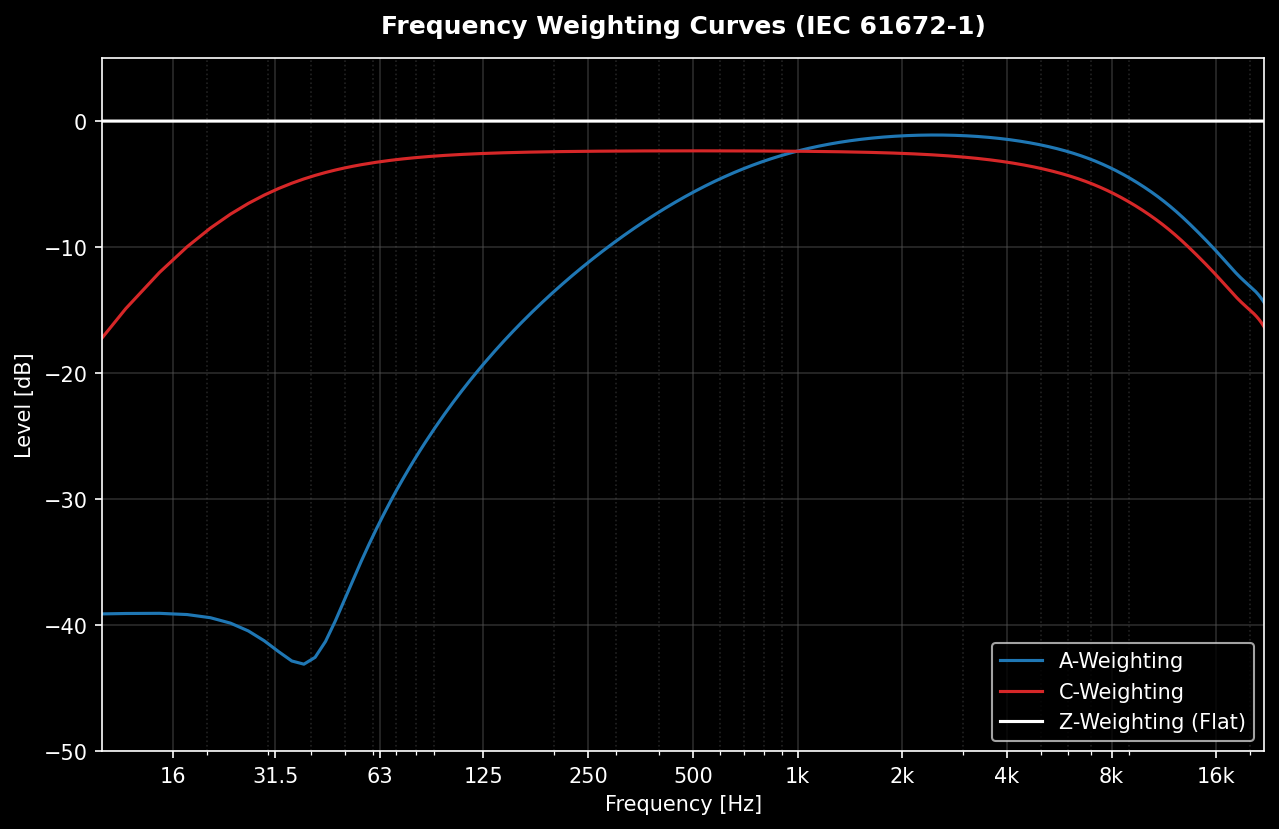
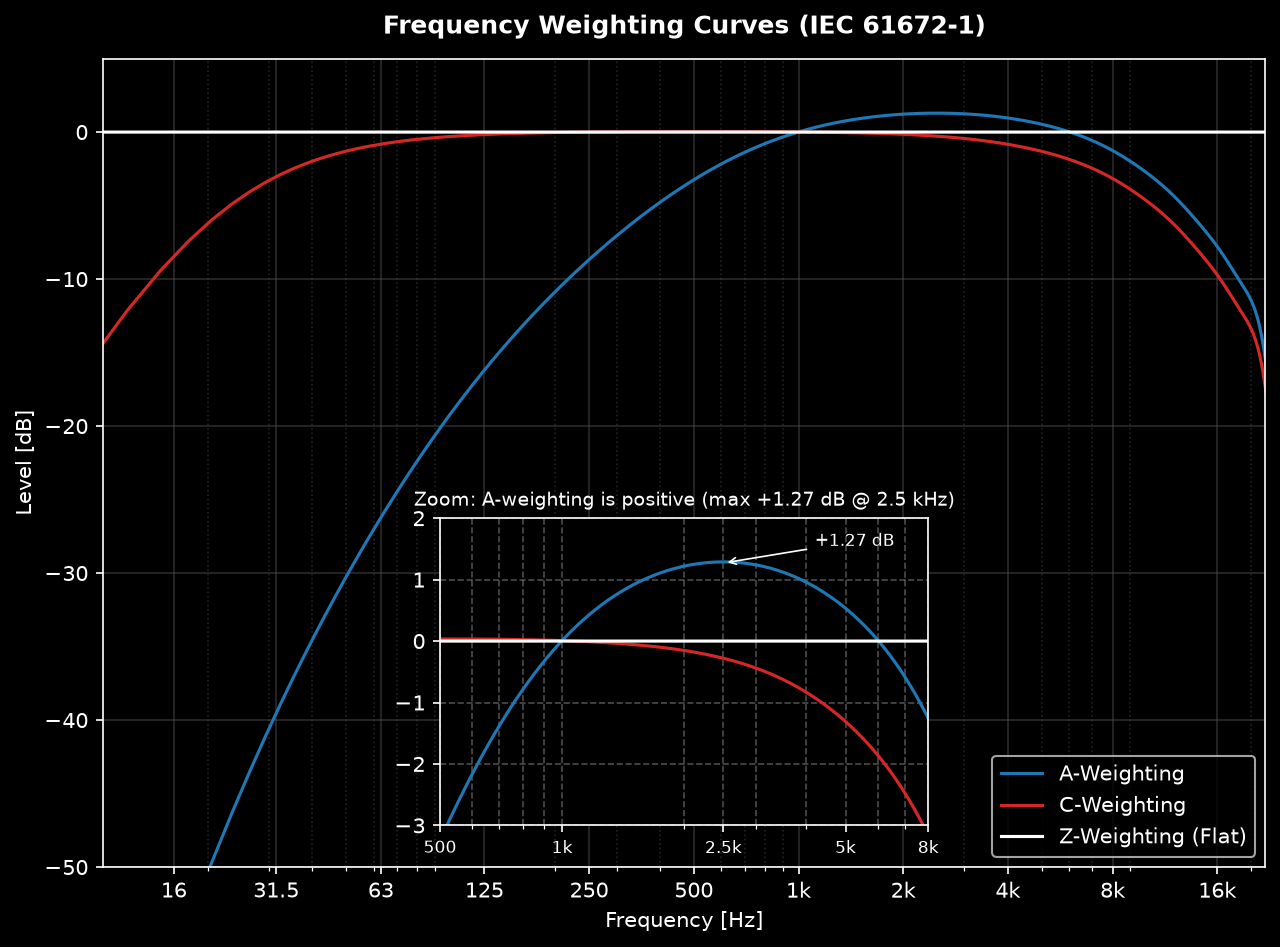
fix: weighting graph showed curves ~2.4 dB low (truncated impulse through resampling path) (#63)
* fix: weighting response graph measured a truncated impulse response

The graph measured the curves via an impulse at sample 0. The
high-accuracy weighting path resamples with polyphase FIRs, so the
interpolation kernel centered on sample 0 lost its anti-causal half
(edge truncation): the plotted A/C curves sat ~2.4 dB low at 1 kHz,
never crossed 0 dB, and showed a bogus -40 dB floor at low frequencies.

The impulse is now centered in the buffer (linear phase only, magnitude
intact) and the figure gained a zoom inset showing the positive region
of the A-curve (+1.27 dB max at 2.5 kHz per IEC 61672-1 Table 2), with
a 0 dB reference line.

New regression test pins the Table 2 positive values (1.25-5 kHz) via
steady-state tone measurement.

Claude-Session: https://claude.ai/code/session_013kkVt3nxi9svp1an28uHxf

* test: guard the graph measurement method against edge-truncated IRs

Extract measure_weighting_response() from the plot function and add
tests/test_graph_measurements.py exercising the ACTUAL helper the figure
uses: analytic-curve agreement (A and C, LF to HF, exact frequencies),
the +1.27 dB positive bump at ~2.5 kHz, and the 0 dB anchor at 1 kHz.

Mutation-verified: reverting the impulse to sample 0 (the shipped bug)
makes all four tests fail.

Claude-Session: https://claude.ai/code/session_013kkVt3nxi9svp1an28uHxf

* docs: drop 0 Hz point for log-axis plotting and fix docstring wording

Claude-Session: https://claude.ai/code/session_013kkVt3nxi9svp1an28uHxf

Pull request: fix: weighting graph showed curves ~2.4 dB low (truncated impulse through resampling path)
## Summary

The weighting-curves figure measured the response via an impulse placed at sample 0. The high-accuracy weighting path (default since #58) resamples with polyphase FIRs, and the interpolation kernel centered on sample 0 loses its anti-causal half at the array edge. Result in the published figure: A/C curves ~2.4 dB low at 1 kHz, the A-curve never crossing 0 dB, and a spurious -40 dB floor at low frequencies (reported by @user from the docs).

The library itself is correct — steady-state tone measurements match the IEC 61672-1 analytic curve within 0.01 dB across the passband (+1.27 dB max at 2.5 kHz).

## Changes

- `generate_weighting_responses`: impulse centered in the buffer (adds linear phase only; magnitude intact through the resampling chain).
- Figure now includes a zoom inset (500 Hz-8 kHz, -3..+2 dB) with a 0 dB reference line and the +1.27 dB @ 2.5 kHz annotation, so the positive region of the A-curve is actually visible.
- New regression test `test_a_weighting_positive_gain_region` pinning the IEC 61672-1 Table 2 positive values (+0.6 @ 1.25k, +1.2 @ 2k, +1.3 @ 2.5k, +1.0 @ 4k, +0.5 @ 5k) via tone measurement.
- Both theme variants regenerated.

## Numerical impact

None on the library; documentation figure only (plus one new test).

https://claude.ai/code/session_013kkVt3nxi9svp1an28uHxf

<!-- This is an auto-generated description by cubic. -->
[…]

diff --git a/generate_graphs.py b/generate_graphs.py
@@ -401,32 +401,84 @@ def generate_decomposition_plot(output_dir: str) -> None:
 
 
 
+def measure_weighting_response(
+    fs: int, curve: str, freqs: "np.ndarray | None" = None
+) -> tuple[np.ndarray, np.ndarray]:
+    """
+    Measure a weighting curve the way the docs figure plots it: impulse
+    response through the real filter path, evaluated with ``freqz`` (DTFT
+    of the measured response).
+
+    The impulse is placed at the CENTER of the buffer: the high-accuracy
+    weighting path resamples with polyphase FIRs, and an impulse at sample 0
+    loses the anti-causal half of the interpolation kernel (edge truncation),
+    which once shipped a figure with curves ~2.4 dB low. Centering only adds
+    linear phase, which does not affect the magnitude.
+
+    :param fs: Sample rate in Hz.
+    :param curve: 'A', 'C' or 'Z'.
+    :param freqs: Optional exact frequencies to evaluate; defaults to a
+        dense 8192-point grid for plotting.
+    :return: Tuple (frequencies, magnitude in dB).
+    """
+    from pyoctaveband import weighting_filter
+
+    impulse = np.zeros(fs)
+    impulse[fs // 2] = 1.0
+    weighted = weighting_filter(impulse, fs, curve=curve)
+
+    worn = 8192 if freqs is None else np.asarray(freqs, dtype=float)
+    w, h = scipy_signal.freqz(weighted, [1], worN=worn, fs=fs)
+    mag_db = 20 * np.log10(np.abs(h) + 1e-9)
+    if freqs is None:
+        # Drop the 0 Hz point: it cannot be drawn on a log frequency axis.
+        return w[1:], mag_db[1:]
+    return w, mag_db
+
+
 def generate_weighting_responses(output_dir: str) -> None:
     """Plot A, C and Z weighting frequency responses."""
     print("Generating weighting_responses.png...")
     fs = 48000
-    
-    from pyoctaveband import weighting_filter
-    
-    _, ax = plt.subplots()
-    
+
+    _, ax = plt.subplots(figsize=(10, 7))
+
+    # Zoom inset: the A curve is POSITIVE (+1.27 dB max at ~2.5 kHz per
+    # IEC 61672-1 Table 2), invisible at the full -50..5 dB scale.
+    from mpl_toolkits.axes_grid1.inset_locator import inset_axes
+    axins = inset_axes(ax, width="42%", height="38%", loc="lower center", borderpad=2)
+    axins.set_xscale("log")
+
     curves = [
         ("A", "A-Weighting", COLOR_PRIMARY),
         ("C", "C-Weighting", COLOR_SECONDARY),
         ("Z", "Z-Weighting (Flat)", COLOR_FG)
     ]
-    
-    for code, label, color in curves:
-        # We need to measure response. Simplest way: IR then FFT
-        impulse = np.zeros(fs)
-        impulse[0] = 1.0
-        weighted = weighting_filter(impulse, fs, curve=code)
-        
-        # Frequency response
-        w, h = scipy_signal.freqz(weighted, [1], worN=8192, fs=fs)
-        ax.semilogx(w, 20 * np.log10(np.abs(h) + 1e-9), label=label, color=color)
 
+    for code, label, color in curves:
+        # measure_weighting_response is covered by tests/test_graph_measurements.py
+        w, mag_db = measure_weighting_response(fs, code)
+        ax.semilogx(w, mag_db, label=label, color=color)
+        axins.plot(w, mag_db, color=color)
+
+    ax.axhline(0, color=COLOR_FG, linestyle=":", alpha=0.3, linewidth=1)
     apply_axis_styling(ax, "Frequency Weighting Curves (IEC 61672-1)", xlim=(10, 22000), ylim=(-50, 5))
+
+    axins.axhline(0, color=COLOR_FG, linestyle=":", alpha=0.4, linewidth=1)
+    axins.set_xlim(500, 8000)
+    axins.set_ylim(-3, 2)
+    axins.grid(True, which="both", alpha=0.3)
+    axins.set_title("Zoom: A-weighting is positive (max +1.27 dB @ 2.5 kHz)", fontsize=9)
+    axins.annotate(
+        "+1.27 dB", xy=(2500, 1.27), xytext=(4200, 1.55), fontsize=8,
+        arrowprops={"arrowstyle": "->", "lw": 0.8},
+    )
+    from matplotlib.ticker import NullFormatter, ScalarFormatter
+    axins.xaxis.set_major_formatter(ScalarFormatter())
+    axins.xaxis.set_minor_formatter(NullFormatter())
+    axins.set_xticks([500, 1000, 2500, 5000, 8000])
+    axins.set_xticklabels(["500", "1k", "2.5k", "5k", "8k"], fontsize=8)
+
     ax.legend(loc="lower right")
     plt.savefig(themed_path(output_dir, "weighting_responses.png"))
     plt.close()

diff --git a/tests/test_graph_measurements.py b/tests/test_graph_measurements.py
@@ -1,0 +1,75 @@
+#  Copyright (c) 2026. Jose M. Requena-Plens
+"""
+Guards for the measurement methods used by generate_graphs.py.
+
+The published weighting-curves figure once showed A/C ~2.4 dB low (never
+crossing 0 dB) because the impulse sat at sample 0 and the high-accuracy
+resampling path truncated the interpolation kernel at the array edge.
+These tests call the ACTUAL graph measurement helper, so CI breaks if the
+figures would ship distorted curves again.
+"""
+
+import pathlib
+import sys
+
+import numpy as np
+import pytest
+
+sys.path.insert(0, str(pathlib.Path(__file__).resolve().parent.parent))
+import generate_graphs  # noqa: E402
+
+FS = 48000
+
+
+def _analytic_a_db(f: np.ndarray) -> np.ndarray:
+    """IEC 61672-1 analytic A-weighting curve."""
+    f2 = np.asarray(f, dtype=float) ** 2
+    ra = (12194**2 * f2**2) / (
+        (f2 + 20.6**2)
+        * np.sqrt((f2 + 107.7**2) * (f2 + 737.9**2))
+        * (f2 + 12194**2)
+    )
+    return 20 * np.log10(ra) + 2.0
+
+
+def _analytic_c_db(f: np.ndarray) -> np.ndarray:
+    """IEC 61672-1 analytic C-weighting curve."""
+    f2 = np.asarray(f, dtype=float) ** 2
+    rc = (12194**2 * f2) / ((f2 + 20.6**2) * (f2 + 12194**2))
+    return 20 * np.log10(rc) + 0.06
+
+
+def test_graph_a_curve_matches_analytic() -> None:
+    """The figure's A curve must match the IEC analytic curve, LF to HF."""
+    freqs = np.array([16.0, 31.5, 100.0, 1000.0, 2500.0, 4000.0, 8000.0])
+    _, mag = generate_graphs.measure_weighting_response(FS, "A", freqs)
+    np.testing.assert_allclose(mag, _analytic_a_db(freqs), atol=0.3)
+
+
+def test_graph_c_curve_matches_analytic() -> None:
+    """The figure's C curve must match the IEC analytic curve, LF to HF."""
+    freqs = np.array([16.0, 31.5, 100.0, 1000.0, 4000.0, 8000.0])
+    _, mag = generate_graphs.measure_weighting_response(FS, "C", freqs)
+    np.testing.assert_allclose(mag, _analytic_c_db(freqs), atol=0.3)
+
+
+def test_graph_a_curve_shows_positive_bump() -> None:
+    """
+    The exact failure mode that shipped: an A curve that never crosses 0 dB.
+
+    The A-weighting is positive between ~1.1 and ~6.2 kHz with a maximum of
+    +1.27 dB at ~2.5 kHz (IEC 61672-1 Table 2). The plotted curve must show it.
+    """
+    w, mag = generate_graphs.measure_weighting_response(FS, "A")
+    assert mag.max() == pytest.approx(1.27, abs=0.15), (
+        f"A-curve max is {mag.max():+.2f} dB; the +1.27 dB bump is missing"
+    )
+    f_max = w[mag.argmax()]
+    assert 2000 < f_max < 3200, f"A-curve peak at {f_max:.0f} Hz, expected ~2.5 kHz"
+
+
+def test_graph_curves_anchor_at_1khz() -> None:
+    """Both weightings are normalized to 0 dB at 1 kHz; the figure must agree."""
+    for curve in ("A", "C"):
+        _, mag = generate_graphs.measure_weighting_response(FS, curve, np.array([1000.0]))
+        assert mag[0] == pytest.approx(0.0, abs=0.1), f"{curve} at 1 kHz: {mag[0]:+.2f} dB"

diff --git a/tests/test_parametric_filters.py b/tests/test_parametric_filters.py
@@ -521,3 +521,24 @@ def test_weighting_filter_empty_signal_high_accuracy() -> None:
     wf = WeightingFilter(48000, "A")
     y = wf.filter(np.array([]))
     assert y.shape == (0,)
+
+
+def test_a_weighting_positive_gain_region() -> None:
+    """
+    Verify the A-curve is POSITIVE between 1.25 and 5 kHz (IEC 61672-1 Table 2).
+
+    **Purpose:**
+    The A-weighting models equal-loudness sensitivity: the ear is MORE
+    sensitive than at 1 kHz around 2-4 kHz, so the curve must exceed 0 dB
+    there (max +1.27 dB at ~2.5 kHz). A curve that never crosses 0 dB
+    indicates a broken normalization or measurement.
+
+    **Verification (against IEC 61672-1 Table 2 values):**
+    - 1250 Hz: +0.6 | 2000 Hz: +1.2 | 2500 Hz: +1.3 | 4000 Hz: +1.0 | 5000 Hz: +0.5
+    """
+    fs = 48000
+    wf = WeightingFilter(fs, "A")
+    for f0, expected in [(1250, 0.6), (2000, 1.2), (2500, 1.3), (4000, 1.0), (5000, 0.5)]:
+        gain = _measured_gain_db(wf, fs, f0)
+        assert gain > 0, f"A-weighting must be positive at {f0} Hz, got {gain:.2f} dB"
+        assert gain == pytest.approx(expected, abs=0.15), f"{f0} Hz: {gain:.2f} dB vs Table 2 {expected}"